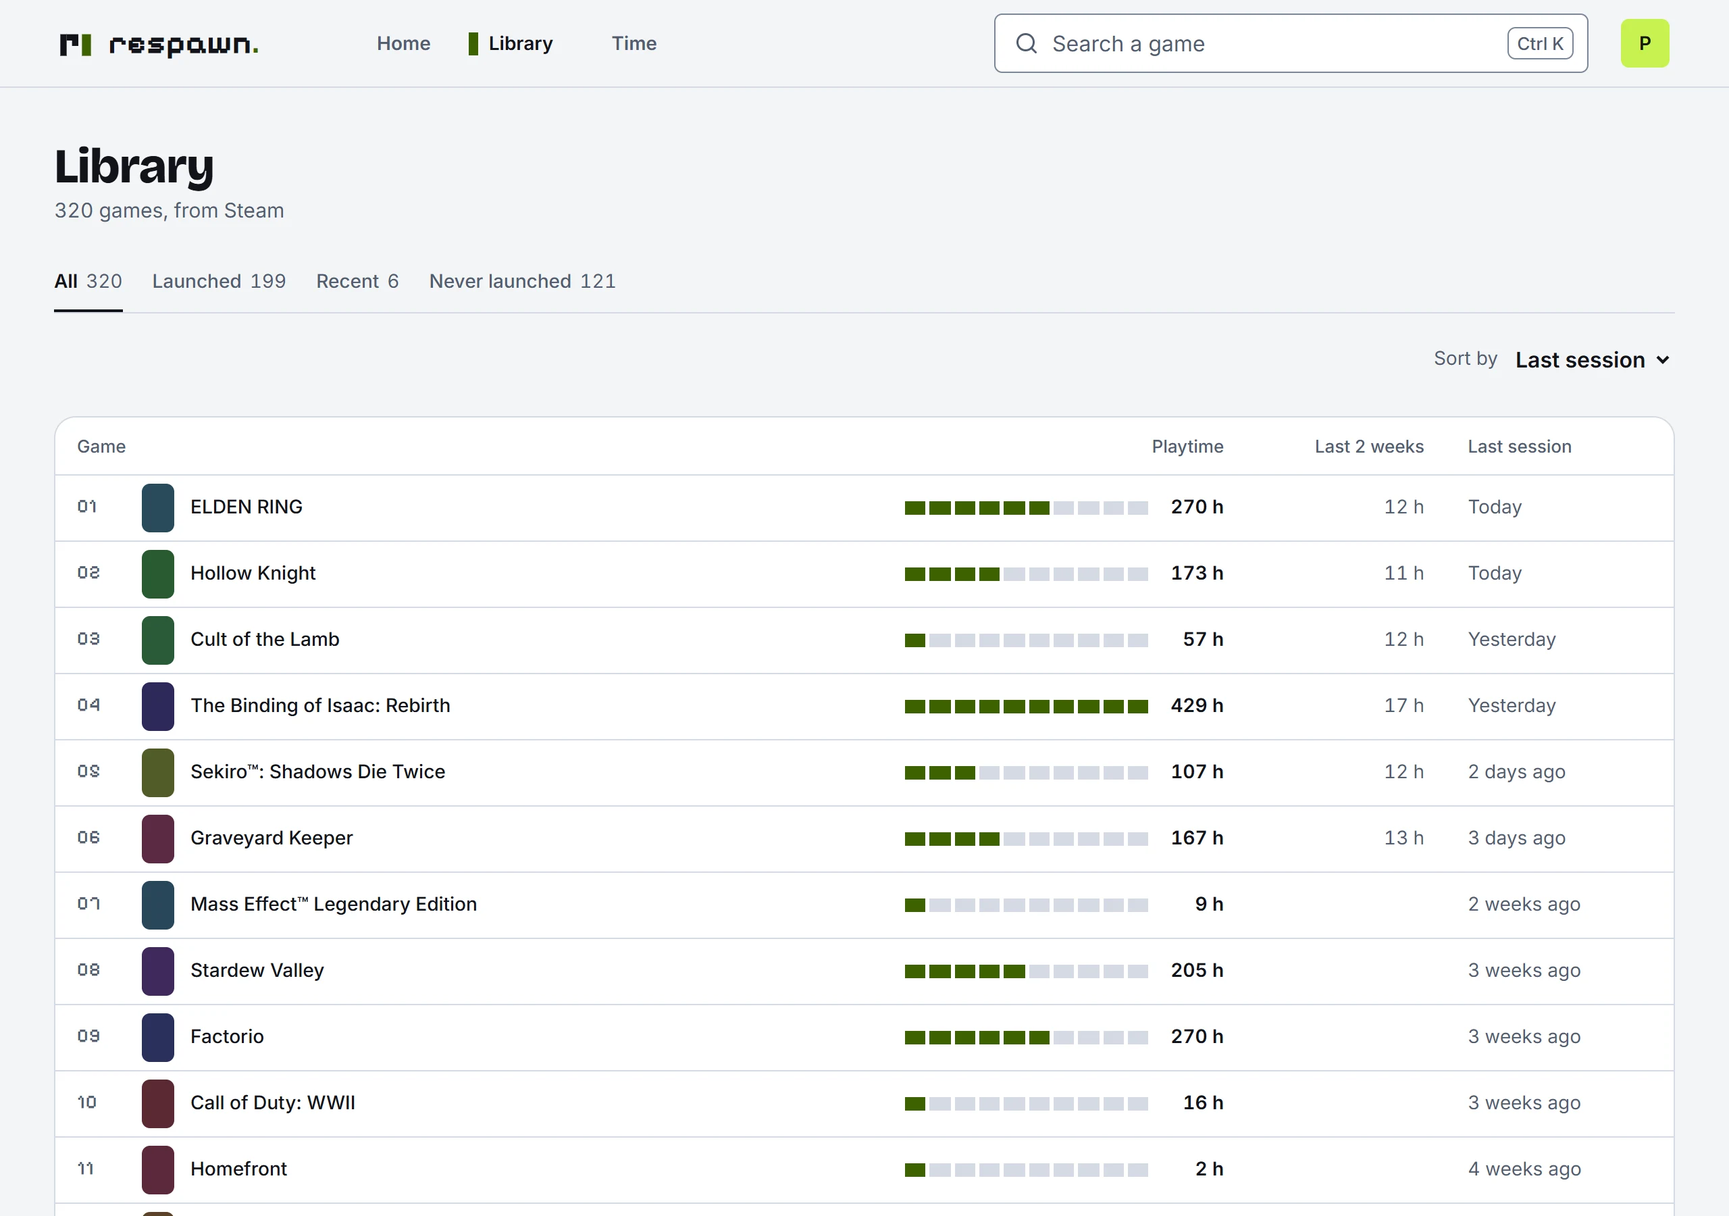
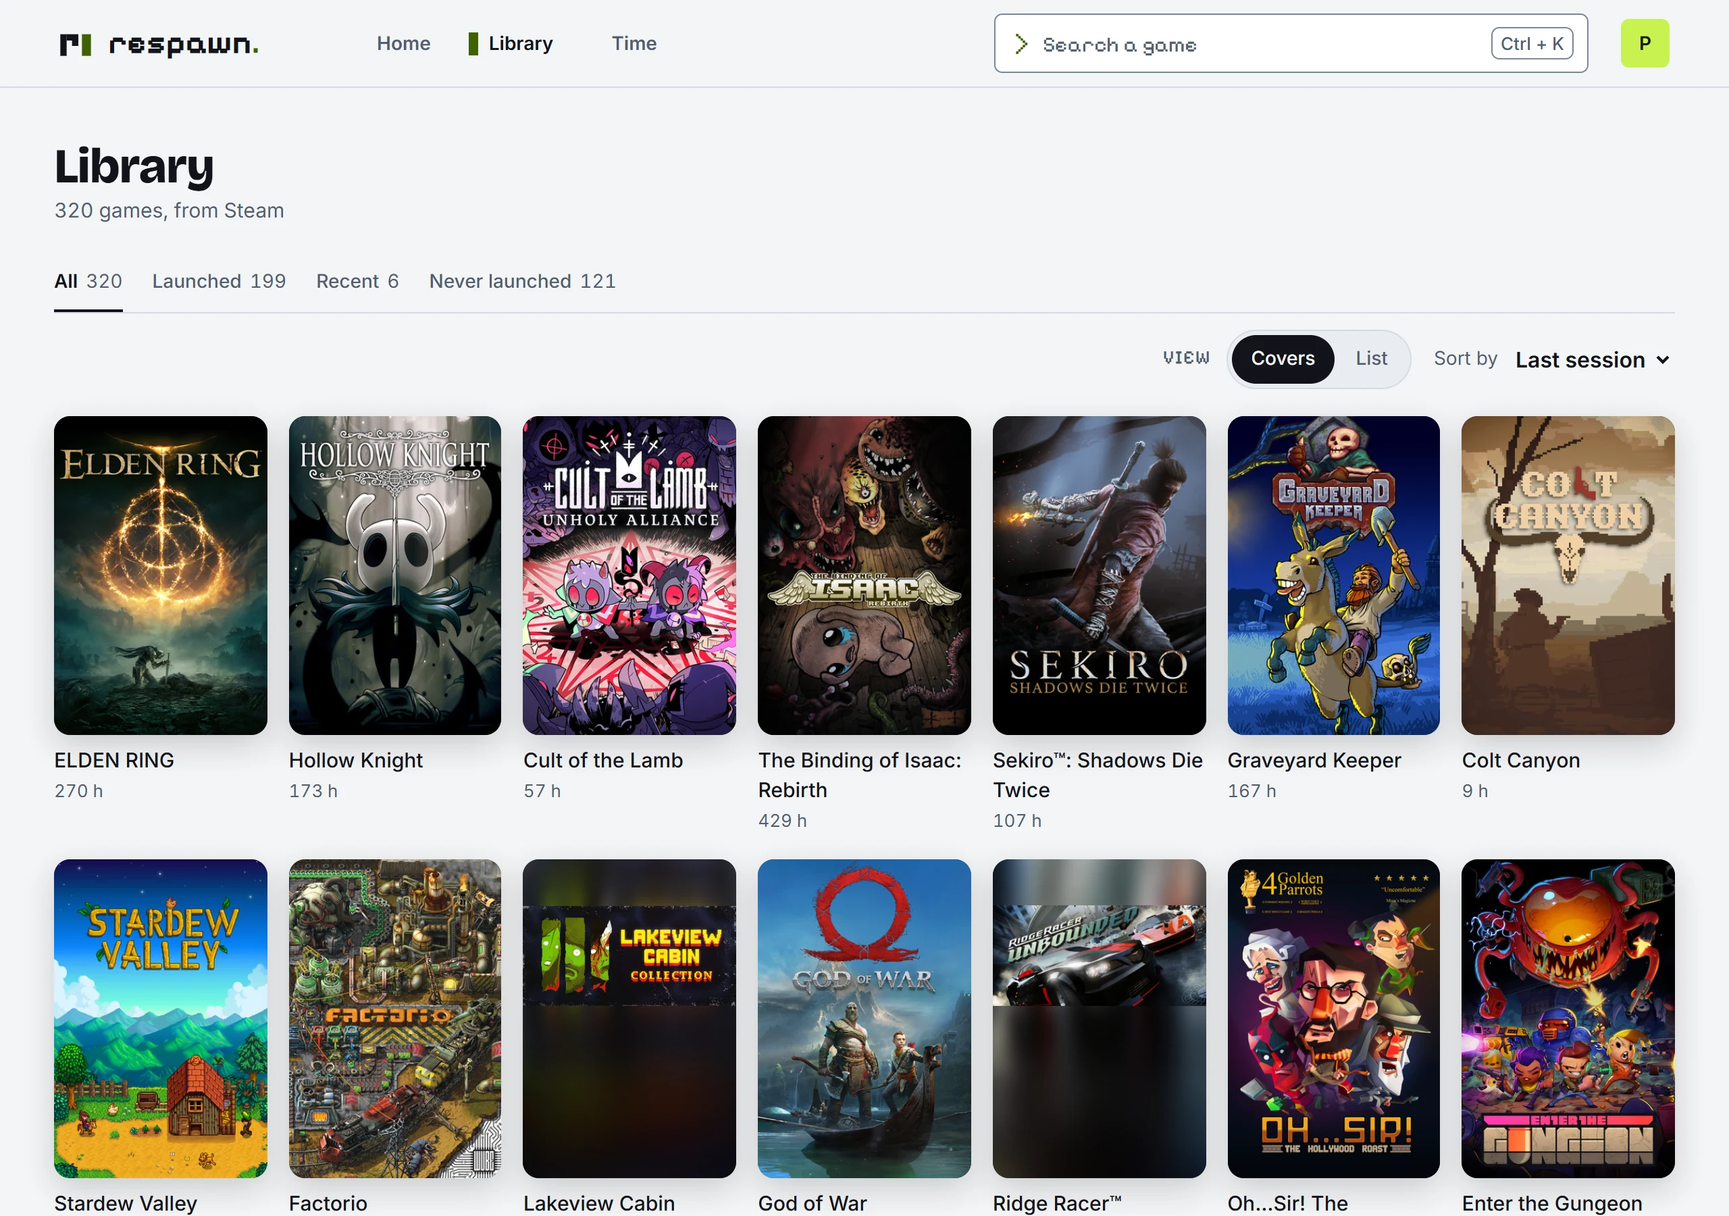
docs: the library as covers in the READMEs and their screenshots (#92)
The README says the library is covers or a list, that Steam's covers show
wherever a game is, and moves its roadmap on to IGDB; its six screenshots are
retaken on the demo library with the covers. The front's README gains the game
page's route and says where a search suggestion leads.

diff --git a/frontend/README.md b/frontend/README.md
@@ -21,16 +21,17 @@ npm run gen:api     # the API's types, from openapi.json
 
 The image builds this front and the API process serves it; the router decides the screen from the address.
 
-| Address        | Screen                                                                                                                                                                                                                                                                                                                                                                                                                                                                                                                                                                                                                                                                                                                                                                                                                         | Needs      |
-| -------------- | ------------------------------------------------------------------------------------------------------------------------------------------------------------------------------------------------------------------------------------------------------------------------------------------------------------------------------------------------------------------------------------------------------------------------------------------------------------------------------------------------------------------------------------------------------------------------------------------------------------------------------------------------------------------------------------------------------------------------------------------------------------------------------------------------------------------------------ | ---------- |
-| `/sign-in`     | sign in, with a local account or through one of the instance's providers, or create an account where the instance allows it; says what came of a sign-in through a provider that opened no session                                                                                                                                                                                                                                                                                                                                                                                                                                                                                                                                                                                                                             | no session |
-| `/`            | the home, under the header, its search (titles suggested from two letters, each leading to `/library?q=`; a field where there is room, a button under it), its tabs (a bar at the foot of the window on a phone) and its account menu (the way to `/account`, the settings, kept on the account at each pick, the providers linked or to link, the sign-out): the way to link a Steam account, where its sync stands, and the library at a glance, made in the browser of the games it holds (the game to resume, the ones played lately, the figures, the most played and their time map, which leads to `/time`, a draw among the never launched), of the years the API counts (the time played per whole year; a year counted in part is named, not drawn) and of the history since the first sync (the latest days played) | a session  |
-| `/library`     | the library as a list: every game with its playtime, its last two weeks and its last session, searched by title (`?q=`, which the header's search writes and which stays on the address), filtered and sorted in the browser, which holds the whole of it; a hundred rows at a time                                                                                                                                                                                                                                                                                                                                                                                                                                                                                                                                            | a session  |
-| `/time`        | the time map: the 30 most played games as tiles, each as large as its playtime and coloured by its last session, the other launched games in a band under them, not to scale; a tile pressed says its time, its share of the whole and its last session, and the band leads to `/library`; the home's map leads here                                                                                                                                                                                                                                                                                                                                                                                                                                                                                                           | a session  |
-| `/account`     | the account, reached from the account menu: who is signed in, and each linked Steam account with where its sync stands, a reading on request, the owner's own key (given, replaced or taken away; never shown) and unlinking, asked twice since it forgets what was read; the way to link an account, which comes back here                                                                                                                                                                                                                                                                                                                                                                                                                                                                                                    | a session  |
-| `/foundations` | the type styles and every base component; in the development build only (`dev-routes.ts`), not in the image                                                                                                                                                                                                                                                                                                                                                                                                                                                                                                                                                                                                                                                                                                                    | nothing    |
-| `/docs`        | the API's description, drawn by Swagger UI; not an Angular screen                                                                                                                                                                                                                                                                                                                                                                                                                                                                                                                                                                                                                                                                                                                                                              | nothing    |
-| anything else  | says that there is no such screen                                                                                                                                                                                                                                                                                                                                                                                                                                                                                                                                                                                                                                                                                                                                                                                              | nothing    |
+| Address        | Screen                                                                                                                                                                                                                                                                                                                                                                                                                                                                                                                                                                                                                                                                                                                                                                                                                                                                | Needs      |
+| -------------- | --------------------------------------------------------------------------------------------------------------------------------------------------------------------------------------------------------------------------------------------------------------------------------------------------------------------------------------------------------------------------------------------------------------------------------------------------------------------------------------------------------------------------------------------------------------------------------------------------------------------------------------------------------------------------------------------------------------------------------------------------------------------------------------------------------------------------------------------------------------------- | ---------- |
+| `/sign-in`     | sign in, with a local account or through one of the instance's providers, or create an account where the instance allows it; says what came of a sign-in through a provider that opened no session                                                                                                                                                                                                                                                                                                                                                                                                                                                                                                                                                                                                                                                                    | no session |
+| `/`            | the home, under the header, its search (titles suggested from two letters, each leading to its game's page, and what was typed to `/library?q=`; a field where there is room, a button under it), its tabs (a bar at the foot of the window on a phone) and its account menu (the way to `/account`, the settings, kept on the account at each pick, the providers linked or to link, the sign-out): the way to link a Steam account, where its sync stands, and the library at a glance, made in the browser of the games it holds (the game to resume, the ones played lately, the figures, the most played and their time map, which leads to `/time`, a draw among the never launched), of the years the API counts (the time played per whole year; a year counted in part is named, not drawn) and of the history since the first sync (the latest days played) | a session  |
+| `/library`     | the library as covers or as a list, the choice kept in this browser (covers until another is picked): every game with its playtime (and in the list its last two weeks and its last session), searched by title (`?q=`, which the header's search writes and which stays on the address), filtered and sorted in the browser, which holds the whole of it; a hundred games at a time, each cover asked for only as it comes near the screen                                                                                                                                                                                                                                                                                                                                                                                                                           | a session  |
+| `/time`        | the time map: the 30 most played games as tiles, each as large as its playtime and coloured by its last session, the other launched games in a band under them, not to scale; a tile pressed says its time, its share of the whole and its last session, and the band leads to `/library`; the home's map leads here                                                                                                                                                                                                                                                                                                                                                                                                                                                                                                                                                  | a session  |
+| `/games/:id`   | the page of a game, reached from wherever a game is shown and from the search, with the way back to where it was reached from: its cover, its time, its rank, this year and the last two weeks, its months since 2022 as a calendar and, for a month, the other games played then; "Launch in Steam" on a computer, and taking a game Steam no longer lists out of the library                                                                                                                                                                                                                                                                                                                                                                                                                                                                                        | a session  |
+| `/account`     | the account, reached from the account menu: who is signed in, and each linked Steam account with where its sync stands, a reading on request, the owner's own key (given, replaced or taken away; never shown) and unlinking, asked twice since it forgets what was read; the way to link an account, which comes back here                                                                                                                                                                                                                                                                                                                                                                                                                                                                                                                                           | a session  |
+| `/foundations` | the type styles and every base component; in the development build only (`dev-routes.ts`), not in the image                                                                                                                                                                                                                                                                                                                                                                                                                                                                                                                                                                                                                                                                                                                                                           | nothing    |
+| `/docs`        | the API's description, drawn by Swagger UI; not an Angular screen                                                                                                                                                                                                                                                                                                                                                                                                                                                                                                                                                                                                                                                                                                                                                                                                     | nothing    |
+| anything else  | says that there is no such screen                                                                                                                                                                                                                                                                                                                                                                                                                                                                                                                                                                                                                                                                                                                                                                                                                                     | nothing    |
 
 A screen is where the API, the router and the settings are injected (`pages/x/x.ts`, and `layout/shell.ts` for
 the header). What it draws is made of components that only take inputs and emit outputs: its own in

diff --git a/README.md b/README.md
@@ -30,7 +30,7 @@ and where your time went.
     <td width="50%">
       <picture>
         <source media="(prefers-color-scheme: dark)" srcset="docs/screenshots/library-dark.webp">
-        <img src="docs/screenshots/library-light.webp" alt="The library as a list, with each game's playtime, its last two weeks and its last session">
+        <img src="docs/screenshots/library-light.webp" alt="The library as covers, each with its title and its playtime, and the choice of covers or a list beside the sort">
       </picture>
     </td>
     <td width="50%">
@@ -41,7 +41,7 @@ and where your time went.
     </td>
   </tr>
   <tr>
-    <td align="center"><b>The library</b>: search, filter, sort</td>
+    <td align="center"><b>The library</b>: covers or a list; search, filter, sort</td>
     <td align="center"><b>The time map</b>: where the hours went</td>
   </tr>
 </table>
@@ -57,8 +57,10 @@ and where your time went.
 - **The home**: the game to resume, with "Launch in Steam", the ones played lately, your playtime, the last
   two weeks and the games never launched, the time played per year, the most played and their time map,
   three never launched drawn at random, and the latest days played.
-- **The library** as a list, searched, filtered (launched, recent, never launched) and sorted; **the Time
-  tab**, the time map in full.
+- **The library** as covers or as a list, each browser keeping its own choice, searched, filtered (launched,
+  recent, never launched) and sorted; **the Time tab**, the time map in full.
+- **Steam's covers** wherever a game is shown, asked of Steam once and kept by the instance when it has a
+  data directory; a cover is asked for only as it comes near the screen.
 - **The page of a game**, reached from wherever a game is shown and from the search: its time, its rank, this
   year and the last two weeks, its months since 2022 as a calendar, and for a month the other games played
   then; "Launch in Steam" on a computer, and taking a game Steam no longer lists out of the library.
@@ -72,12 +74,11 @@ and where your time went.
 
 **Roadmap**, in order:
 
-1. **Next**: the library as covers, beside the list.
-2. **Covers and durations** through IGDB, and with them the backlog in hours; a first try at searching your
-   own backlog by what you feel like playing.
-3. **Statuses and ratings** for each game.
-4. **Tokens for the public API.**
-5. **More stores, next-game suggestions, sharing with a group.**
+1. **Next**: covers and durations through IGDB, and with them the backlog in hours; a first try at
+   searching your own backlog by what you feel like playing.
+2. **Statuses and ratings** for each game.
+3. **Tokens for the public API.**
+4. **More stores, next-game suggestions, sharing with a group.**
 
 What changed lately: the [commits on `main`](https://github.com/thomas-lg-lab/respawn/commits/main), one per
 pull request. No release is published yet; each one will list its pull requests in its notes.
